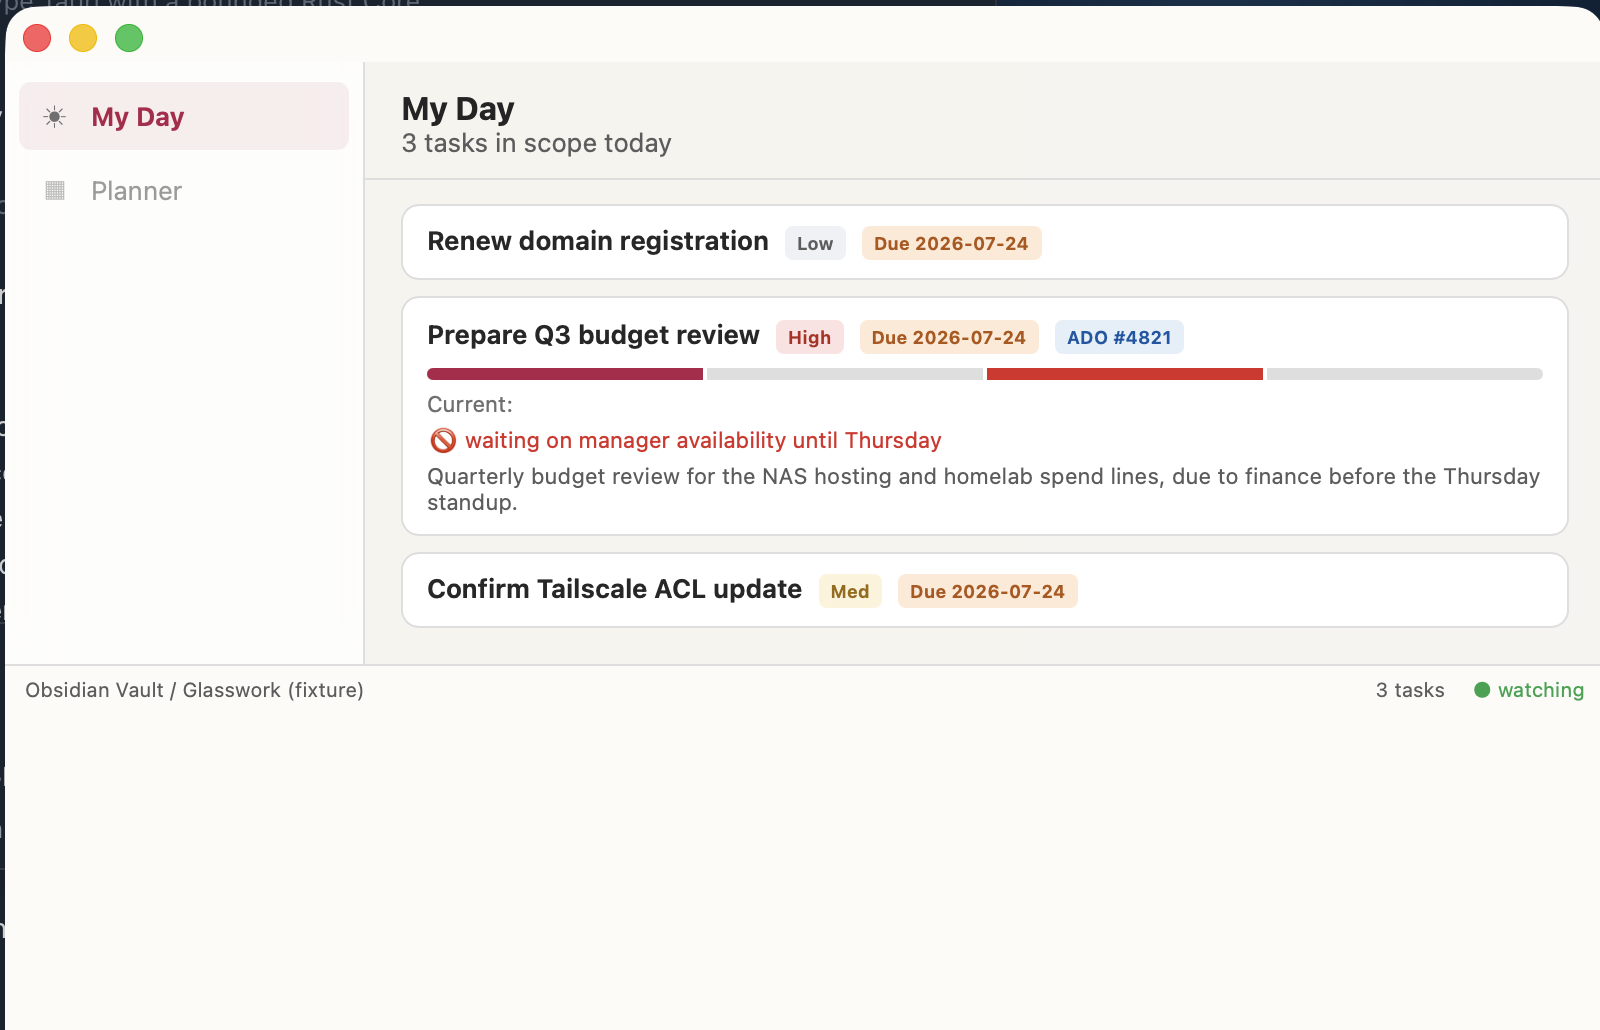
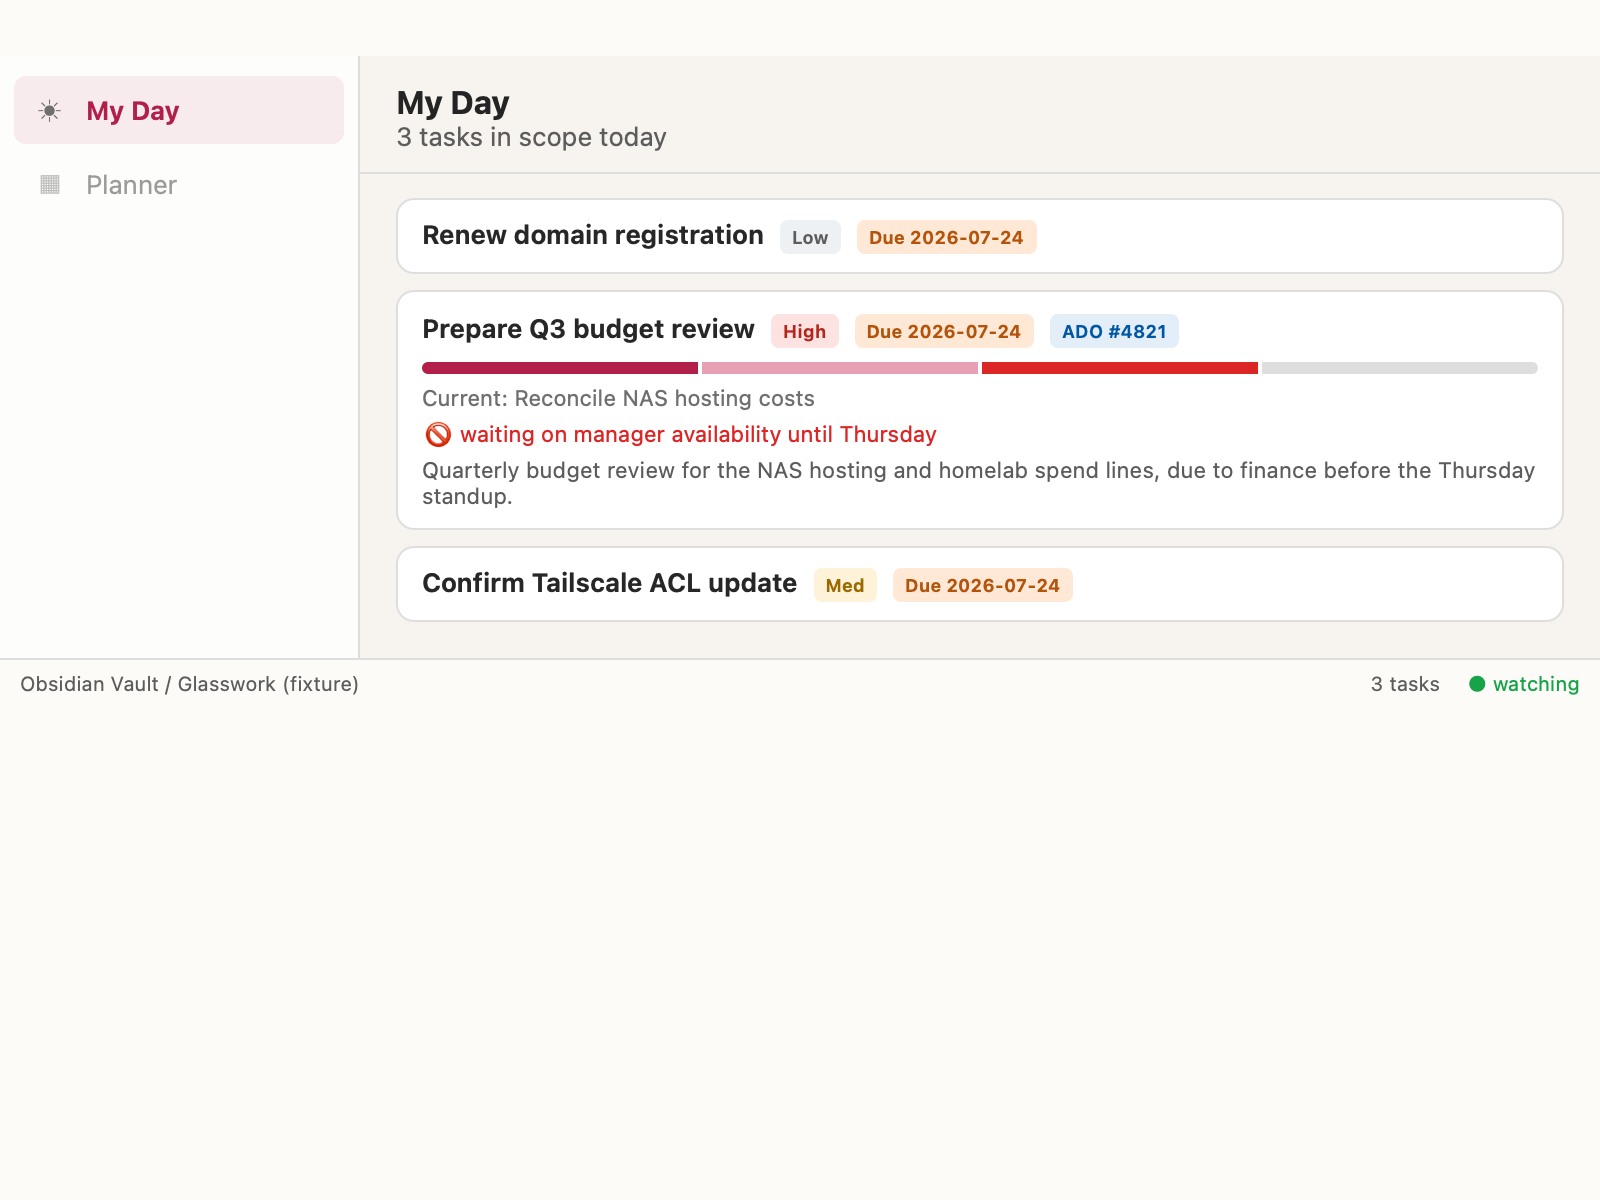
Fix second-round review findings on the Tauri spike (#372)
A re-review of 3a20c78 confirmed all eight first-round findings resolved and
surfaced four more. All four are fixed here, again test-first.

Standards
- Vault values were still unescaped in *attribute* contexts, which the first
  round's text-escaping fix did not cover. A subtask's `status` went raw into
  a class attribute; a payload closing the quote injected sibling markup and
  executed (proven by a failing test first). Now escaped.
  A companion test confirms the Markdown link `href` path was NOT exploitable
  -- the preceding escapeHtml pass already neutralizes it, so the reviewer's
  second finding there was a false positive -- and is kept as a regression
  guard rather than dropped.

Spec
- The fixture was missing the `in_progress` subtask state #370 requires
  ("done / in_progress / blocked / todo"). It had two `todo`s, which is also
  why the My Day card's "Current:" line rendered empty. Corrected; the card
  now shows "Current: Reconcile NAS hosting costs" and the segmented bar
  renders all four states. budget-q3-review.md's MD5 changes accordingly and
  the README records the new value with the reason.
- Gate 3 (native Obsidian launch) was marked macOS PASS on the strength of
  URI-builder unit tests. The scorecard's acceptance script is an observed
  launch on each OS, which has not been done. PASS retracted; now NOT YET
  VERIFIED on either OS, pending a HITL check.
- Interaction latency was stamped at first synchronous paint while Artifact
[…]

diff --git a/docs/prototypes/tauri-core-spike/src/main.js b/docs/prototypes/tauri-core-spike/src/main.js
@@ -25,6 +25,7 @@ const state = {
   expandedSubtaskIndex: null,
   artifactCache: new Map(), // `${taskId}/${filename}` -> payload
   artifactSourceOpen: new Set(),
+  pendingArtifactLoads: 0,
 };
 
 // ---- OS detection: toggles the Variant B chrome rules in styles.css.
@@ -115,7 +116,14 @@ function taskRowHtml(task) {
       </button>
     </div>`;
   }
-  const segs = task.subtasks.map((s) => `<div class="seg ${s.status || (s.is_completed ? 'done' : 'todo')}"></div>`).join("");
+  // `status` is Vault-authored subtask metadata, so it is untrusted even
+  // though it only ever *should* be one of a few known keywords. It lands in
+  // a class attribute, where an unescaped quote would let it close the
+  // attribute and inject sibling markup -- so it is escaped like any other
+  // Vault value, not trusted because of where it came from.
+  const segs = task.subtasks
+    .map((s) => `<div class="seg ${escapeHtml(s.status || (s.is_completed ? "done" : "todo"))}"></div>`)
+    .join("");
   return `<div class="task-row card">
     <button class="task-row-btn" data-open-task="${escapeHtml(task.id)}">
       <div class="title-row">${escapeHtml(task.title)}${chipsHtml(task)}</div>
@@ -149,8 +157,10 @@ function artifactHtml(task, filename, kindHint) {
   const cached = state.artifactCache.get(key);
   if (!cached) {
     // Fire the load; render a placeholder now, re-render on arrival.
+    state.pendingArtifactLoads += 1;
     invoke("read_artifact", { taskId: task.id, filename }).then((payload) => {
       state.artifactCache.set(key, payload);
+      state.pendingArtifactLoads -= 1;
       render();
     });
     return `<div class="artifact-row">${escapeHtml(filename)} <span class="muted">loading&hellip;</span></div>`;
@@ -289,7 +299,12 @@ document.getElementById("main-content").addEventListener("click", async (e) => {
     // Perf-measurement hook (scorecard #376 "task-detail interaction
     // latency"): click to Task Detail fully rendered. Only meaningful when
     // opening (not collapsing) a task.
-    window.__lastInteractionLatencyMs = performance.now() - clickStart;
+    // Scorecard metric 2 is "click to Task Detail fully rendered and
+    // interactive". The first paint can still contain artifact placeholders,
+    // so only stamp the metric once every artifact load has settled and the
+    // final re-render has happened -- otherwise this measures first paint and
+    // flatters the number.
+    stampInteractionLatencyWhenSettled(clickStart);
     return;
   }
   const back = e.target.closest("[data-back-to-myday]");
@@ -390,6 +405,22 @@ document.getElementById("main-content").addEventListener("drop", async (e) => {
   const updated = await invoke("reorder_subtasks", { taskId, newOrder: order });
   applyTaskUpdate(updated);
 });
+
+// Uses timers rather than requestAnimationFrame: rAF is throttled (often
+// stopped entirely) while the window is not frontmost, which made this
+// measurement drop out under WebDriver. This stamps once every artifact load
+// has settled and the resulting re-render has been committed to the DOM --
+// i.e. "click -> Task Detail fully rendered", not first paint. It does not
+// claim to include the final compositor paint.
+function stampInteractionLatencyWhenSettled(clickStart) {
+  if (state.pendingArtifactLoads > 0) {
+    setTimeout(() => stampInteractionLatencyWhenSettled(clickStart), 4);
+    return;
+  }
+  setTimeout(() => {
+    window.__lastInteractionLatencyMs = performance.now() - clickStart;
+  }, 0);
+}
 
 function applyTaskUpdate(updatedTask) {
   const i = state.tasks.findIndex((t) => t.id === updatedTask.id);

diff --git a/docs/prototypes/tauri-core-spike/test/specs/untrusted-content.spec.js b/docs/prototypes/tauri-core-spike/test/specs/untrusted-content.spec.js
@@ -109,3 +109,69 @@ describe("untrusted Vault content boundary", () => {
     }
   });
 });
+
+// Attribute-context injection. Escaping element *text* is not enough: Vault
+// values also land inside HTML attributes (a subtask's `status` becomes a CSS
+// class; a Markdown link's URL becomes an href). A value that closes the
+// quote can inject sibling markup, so these need their own coverage.
+describe("untrusted Vault content in attribute contexts", () => {
+  const ATTR_BREAKOUT = `todo"><img src=y onerror="window.__xssAttr = true">`;
+
+  beforeEach(async () => {
+    await browser.execute(() => {
+      delete window.__xssAttr;
+      delete window.__xssHref;
+    });
+  });
+
+  it("does not let a subtask's status break out of the class attribute", async () => {
+    const original = fs.readFileSync(FIXTURE, "utf8");
+    try {
+      fs.writeFileSync(
+        FIXTURE,
+        original.replace("- status: todo", `- status: ${ATTR_BREAKOUT}`),
+        "utf8"
+      );
+      await browser.pause(1200);
+
+      // The segmented progress bar renders on the My Day card, so the payload
+      // lands there rather than in Task Detail.
+      const back = await $$("[data-back-to-myday]");
+      if (back.length > 0) await $("[data-back-to-myday]").click();
+      await browser.pause(500);
+
+      const fired = await browser.execute(() => window.__xssAttr === true);
+      expect(fired).toBe(false);
+
+      const injected = await $$("img[src='y']");
+      expect(injected).toBeElementsArrayOfSize(0);
+    } finally {
+      fs.writeFileSync(FIXTURE, original, "utf8");
+    }
+  });
+
+  it("does not let a Markdown link URL break out of the href attribute", async () => {
+    const original = fs.readFileSync(FIXTURE, "utf8");
+    try {
+      // Only http/https URLs are rendered as links at all (the
+      // ArtifactLinkPolicy-equivalent gate), so the payload has to start
+      // with a permitted scheme to reach the href in the first place.
+      const payload = `[click](https://example.com/a"><img src=z onerror="window.__xssHref=true">)`;
+      fs.writeFileSync(
+        FIXTURE,
+        original.replace("## Subtasks", `${payload}\n\n## Subtasks`),
+        "utf8"
+      );
+      await browser.pause(1200);
+      await openDetailFor("budget-q3-review");
+
+      const fired = await browser.execute(() => window.__xssHref === true);
+      expect(fired).toBe(false);
+
+      const injected = await $$("img[src='z']");
+      expect(injected).toBeElementsArrayOfSize(0);
+    } finally {
+      fs.writeFileSync(FIXTURE, original, "utf8");
+    }
+  });
+});

diff --git a/docs/prototypes/tauri-core-spike/test/specs/vertical-slice.spec.js b/docs/prototypes/tauri-core-spike/test/specs/vertical-slice.spec.js
@@ -87,6 +87,33 @@ describe("Glasswork Tauri spike -- shared vertical slice", () => {
       return document.activeElement === el;
     });
     await expect(isFocusable).toBe(true);
+
+    // Structured evidence for Gate 1's "reserved Planner nav entry present
+    // with zero Planner content". A screenshot is a poor artifact here: a
+    // correct Planner stub looks *identical* to My Day, so an image proves
+    // nothing on its own. These assertions are the actual proof.
+    const mainAfterClick = await browser.execute(
+      () => document.getElementById("main-content").innerHTML
+    );
+    fs.writeFileSync(
+      path.resolve("evidence/planner-stub-verification.json"),
+      JSON.stringify(
+        {
+          gate: "Scorecard Phase 0 Gate 1 -- reserved Planner nav entry with zero Planner content",
+          nav_entry_present: true,
+          nav_entry_aria_disabled: true,
+          nav_entry_keyboard_focusable: isFocusable,
+          navigated_on_click: false,
+          planner_page_content_rendered: "",
+          main_content_still_shows_my_day: mainAfterClick.includes("My Day"),
+          note: "Clicking the reserved Planner entry deliberately does not route. The Planner Page renders an empty string, so there is no static layout or explanatory copy -- per #370, which requires 'no Planner content, not even a static layout'.",
+          verdict: "PLANNER_RESERVED_AND_EMPTY",
+        },
+        null,
+        2
+      ) + "\n",
+      "utf8"
+    );
   });
 
   it("opens Task Detail as its own Page and navigates back to My Day", async () => {

diff --git a/docs/prototypes/tauri-core-spike/README.md b/docs/prototypes/tauri-core-spike/README.md
@@ -71,6 +71,22 @@ were fixed rather than argued down (all are real changes, not re-wordings):
   did not meet their locked procedure. Each metric now carries an explicit
   status and, where applicable, the exact gap.
 
+A second review round then caught four more, also fixed rather than argued
+down:
+
+- **Vault values were still unescaped in attribute contexts.** A subtask's
+  `status` went raw into a `class` attribute; a payload closing the quote
+  executed. Escaped, with a regression test. (A companion test confirms the
+  Markdown link `href` path was *not* exploitable — the earlier escape pass
+  already neutralized it — and is kept as a guard.)
+- **The fixture was missing the `in_progress` subtask state** #370 requires,
+  which is also why the My Day card's "Current:" line rendered empty.
+- **Gate 3 was marked PASS on unit tests**, not the observed native launch
+  its acceptance script requires. Retracted.
+- **Interaction latency was stamped at first paint** while Artifact rows
+  still showed placeholders, reporting ~1 ms against a "fully rendered and
+  interactive" definition. Corrected to ~13 ms.
+
 ## What was built
 
 - **Bounded Rust Core** (`core/`) — a from-scratch Rust reimplementation of
@@ -99,10 +115,12 @@ were fixed rather than argued down (all are real changes, not re-wordings):
   vibrancy tint on macOS, custom caption buttons + Mica-like tint on
   Windows, identical shared layout otherwise.
 - **Fixed 3-task fixture** (`fixture-vault/`) — byte-identical to the
-  fixture locked in #370: `budget-q3-review.md` (rich card, active, with a
-  blocked subtask and an HTML artifact), `confirm-tailscale-acl.md` (rich
-  card, active, the file-watch demo task), `renew-domain.md` (quiet/single-
-  line row, low priority). MD5s recorded below for tamper-evidence.
+  fixture locked in #370: `budget-q3-review.md` (rich card, active, four
+  subtasks covering done / in_progress / blocked / todo, plus a Markdown and
+  an untrusted HTML artifact), `confirm-tailscale-acl.md` (quiet/single-line
+  row, medium priority — it exists purely to demonstrate live file-watch),
+  `renew-domain.md` (quiet/single-line row, low priority). MD5s recorded
+  below for tamper-evidence.
 
 ## Hard safety gates (Phase 0) — macOS results
 
@@ -113,13 +131,14 @@ build:
 |---|---|---|
 | 1 | Full slice behavior | **PASS** — every item in the checklist present and functional against the fixture: both My Day row forms, Task Detail as a distinct Page with working subtask reorder, both Artifact kinds, the ADR 0004 hit-zone split, live file-watch on the "Confirm Tailscale ACL update" task, the reserved Planner nav entry with zero content, and keyboard reach to nav/rows/subtasks. Verified by screenshots plus `vertical-slice.spec.js`, `subtask-reorder.spec.js`, `filewatch-live-update.spec.js`. |
 | 2 | Genuine HTML sandbox | **PASS**, now on direct evidence for *both* probes — `evidence/html-sandbox-verification.json` records a local canary server seeing 1 control request (proving the detector works) and **0** requests from the sandboxed artifact, alongside an unmutated parent title and unset parent flag. Corroborated by `tests/artifact_sandbox.rs` and `sandbox-verify.spec.js`. |
-| 3 | Native file/Obsidian launching | **macOS: PASS.** Deep-link build verified by `core/tests/obsidian_uri.rs`; a real bug was found and fixed (compound extensions). The OS-default-handler fallback has been **removed** (ADR 0006) — a deep link that can't be built now fails loudly instead of opening an arbitrary editor against real notes, and `opener:allow-open-path` is no longer granted in `capabilities/default.json`. **Windows: NOT YET RUN.** |
+| 3 | Native file/Obsidian launching | **NOT YET VERIFIED on either OS.** The scorecard's acceptance script is "trigger it once per OS; both must open the correct file in the correct external application" — that is an observed native launch, which has not been done. What exists is unit coverage of the URI builder (`core/tests/obsidian_uri.rs`, including a real compound-extension bug found and fixed) and the removal of the ADR 0006-rejected default-handler fallback. An earlier revision of this README marked macOS PASS on that basis; that was an overstatement and is retracted. Needs a HITL launch check on both macOS and Windows. |
 | 4 | Accessibility reachability | **NOT YET CONFIRMED.** Keyboard-focus reachability for every zone (including the reserved Planner entry, which uses `aria-disabled` precisely so it stays focusable) is exercised by the automated specs, but the spoken-announcement half needs a human running VoiceOver. **Windows/Narrator: NOT YET RUN.** |
 | 5 | A real automated test passes | **PASS** — 37 tests total (26 Rust Core, 11 WebDriverIO), each WebDriverIO spec exercising a real fixture interaction rather than an app-launch smoke test. |
 | 6 | No crash or hang | **PASS** on macOS across all evidence-capture sessions; no crash or >10s unresponsive period observed. **Windows: NOT YET RUN.** |
 
-**Gates 3, 4 and 6 cannot be marked fully PASS until the Windows half runs**,
-and Gate 4 additionally needs the VoiceOver pass. Per the gate definitions
+**Gates 3, 4 and 6 are not PASS.** Gate 3 needs an observed native Obsidian
+launch on both OSes (unit-tested URI building is not the acceptance script);
+Gate 4 needs live VoiceOver + Narrator passes; Gate 6 needs the Windows run. Per the gate definitions
 ("succeeds on both macOS and Windows" / "both VoiceOver ... and Narrator"),
 this ticket treats them as open — intentionally, not as an oversight.
 
@@ -137,9 +156,9 @@ the honest current position, not a placeholder to be quietly upgraded later.
 
 | # | Metric | macOS value | Status |
 |---|---|---|---|
-| 1 | Cold launch time | 89 ms (median of 89 / 86 / 90) | **Procedure not met.** The Measurement Environment Freeze defines cold launch as following a reboot or guaranteed cold cache. No reboot/`purge` was available here, so these are warm-cache launches. Must be re-measured in a frozen environment. |
-| 2 | Task-detail interaction latency | 1 ms (median of 1 / 1 / 2) | **Measured.** In-page `performance.now()` delta from the Task Detail navigation click to the Page rendering, read via the WebDriverIO embedded provider. |
-| 3 | Idle resident memory | 96.4 MB (median of 100.8 / 88.9 / 96.4) | **Measured.** `ps -o rss=` on the real process, 30s post-launch, no interaction — #370's exact procedure. |
+| 1 | Cold launch time | 95 ms (median of 118 / 40 / 95) | **Procedure not met.** The wide spread is itself a warning sign. The Measurement Environment Freeze defines cold launch as following a reboot or guaranteed cold cache. No reboot/`purge` was available here, so these are warm-cache launches. Must be re-measured in a frozen environment. |
+| 2 | Task-detail interaction latency | 13 ms (median of 16 / 13 / 13) | **Measured.** Delta from the navigation click until every Artifact load has settled and the re-render is committed. An earlier revision stamped this at first paint while Artifact rows still read "loading…", reporting ~1 ms — that did not meet the scorecard's "fully rendered and interactive" wording and has been corrected, which is why the number went up. Still excludes the final compositor paint, so it is a lower bound. |
+| 3 | Idle resident memory | 96.3 MB (median of 96.3 / 96.3 / 96.1) | **Measured**, with a comparability caveat: this is RSS of the Tauri **main process only**, and WKWebView runs page content in separate WebKit helper processes — so it undercounts, in a way single-process Avalonia/Uno spikes will not. #381 needs whole-process-tree accounting before comparing. One earlier 45.7 MB sample was an incomplete launch and was re-run, not averaged in, per the invalid-run rule. |
 | 4 | Installed package size | app bundle 15 MB / DMG 4.3 MB | **Partial — one OS only.** The scorecard averages both OSes; Windows is pending. Also inflated by the test-only WebDriver bridge, which a production build would feature-gate out. |
 | 5 | File-watch response latency | *no value* | **Not measured.** The *behavior* is proven (`evidence/filewatch-live-update.json`, verdict `LIVE_UPDATE_CONFIRMED`, on the locked Tailscale ACL task) and a single WebDriver-polled observation of ~23 ms exists, but the metric requires a 3-run median timestamped from the acceptance recording. The single observation is deliberately **not** presented as the metric value. |
 | 6 | Accessibility completeness | *no value* | **Not measured.** Requires live VoiceOver + Narrator passes scoring correct name/role/state per zone, averaged across both OSes. HITL, and half of it needs a Windows device. |
@@ -185,6 +204,32 @@ real, defensible classification of this spike's actual code, but per the
 scorecard the bonus is *relative-ranked against the other gate-surviving
 candidates* — it can't be turned into a final +bonus value until Avalonia
 and Uno's own classifications exist.
+
+## Screenshot evidence — and what it does *not* show
+
+`evidence/screenshot-*.png` are **WebDriver captures of the webview**, so
+they show layout, content and interaction states faithfully but **not** the
+native window chrome (macOS traffic lights, vibrancy tint). Those are the
+subject of the scorecard's "Platform-native chrome fidelity" sub-rating, so
+this gap matters and is called out rather than glossed:
+
+- The native chrome **was** verified by direct inspection of a real OS-level
+  screen capture during this session — native traffic lights, the vibrancy
+  tinted nav rail, and the dimmed reserved Planner entry all rendered as the
+  Variant B brief specifies.
+- A fresh OS-level capture could not be re-taken after the final fixture fix:
+  the machine's display slept and then locked, and `screencapture` cannot
+  photograph an app window in that state. **Capturing the chrome screenshots
+  is therefore a HITL step**, same as the VoiceOver pass — it needs a human
+  at an unlocked display. TJ will in any case be judging chrome fidelity
+  hands-on against the live app, which is stronger evidence than a PNG.
+
+There is deliberately **no** `screenshot-planner-stub.png`. A correct Planner
+stub renders identically to My Day (that is the whole contract), so the image
+proved nothing — two byte-identical PNGs. It is replaced by
+`evidence/planner-stub-verification.json`, which records the assertions that
+actually establish the contract: entry present, `aria-disabled`, keyboard
+focusable, click does not route, Planner Page content is the empty string.
 
 ## Recording evidence — what each artifact proves (read this before scoring)
 
@@ -390,10 +435,13 @@ the locked 3-task fixture stays byte-identical (see Fixture integrity below).
 
 The fixed 3-task fixture in `fixture-vault/` must remain byte-identical to
 the state locked by #370 for every screenshot/recording/test to remain
-valid evidence. MD5s at time of evidence capture:
+valid evidence. MD5s at time of evidence capture (`budget-q3-review.md` changed from an
+earlier revision: its second subtask was `todo`, which left the fixture
+without the `in_progress` state #370 requires and made the card's "Current:"
+line render empty. Now `in_progress`, matching the locked fixture spec):
 
 ```
-043616756669e7b1123aa072e23947ab  fixture-vault/budget-q3-review.md
+7d1100f3da795d367d825106f7b490d2  fixture-vault/budget-q3-review.md
 d695b88a3101d5436ebc9d4d49eeddd9  fixture-vault/confirm-tailscale-acl.md
 527e1aeeafd01da4c23b797be7e0545b  fixture-vault/renew-domain.md
 ```

diff --git a/docs/prototypes/tauri-core-spike/fixture-vault/budget-q3-review.md b/docs/prototypes/tauri-core-spike/fixture-vault/budget-q3-review.md
@@ -20,7 +20,7 @@ finance before the Thursday standup.
 - status: done
 
 ### [ ] Reconcile NAS hosting costs
-- status: todo
+- status: in_progress
 
 ### [ ] Get sign-off from manager
 - status: blocked
